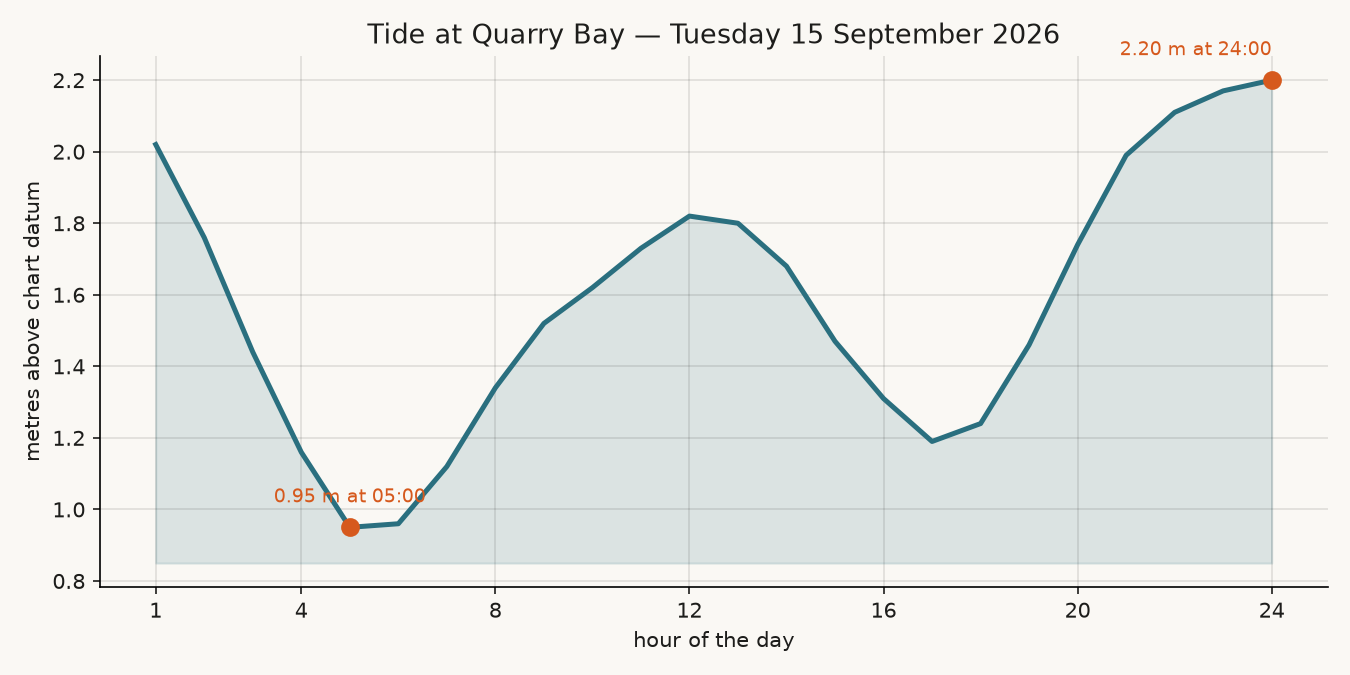
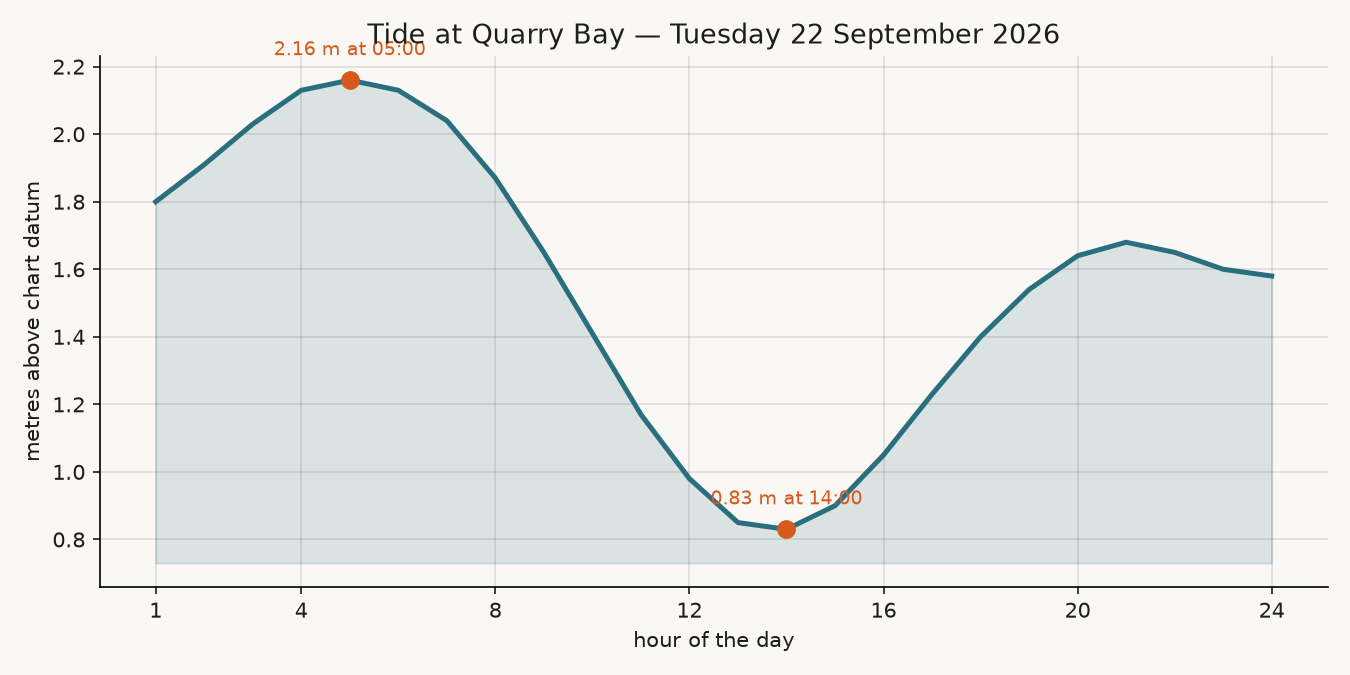
FILLtoFalse

diff --git a/week03/plot_day.py b/week03/plot_day.py
@@ -32,7 +32,7 @@ INK = "#1d1d1b"            # text and axes
 WATER = "#2a6f7f"          # the line
 MARK = "#d6591d"           # the high and low water dots
 LINE_WIDTH = 2.4
-FILL = True                # colour in the water under the line?
+FILL = False                # colour in the water under the line?
 FIGSIZE = (9, 4.5)         # inches, wide and short like a tide table
 
 HERE = Path(__file__).parent
